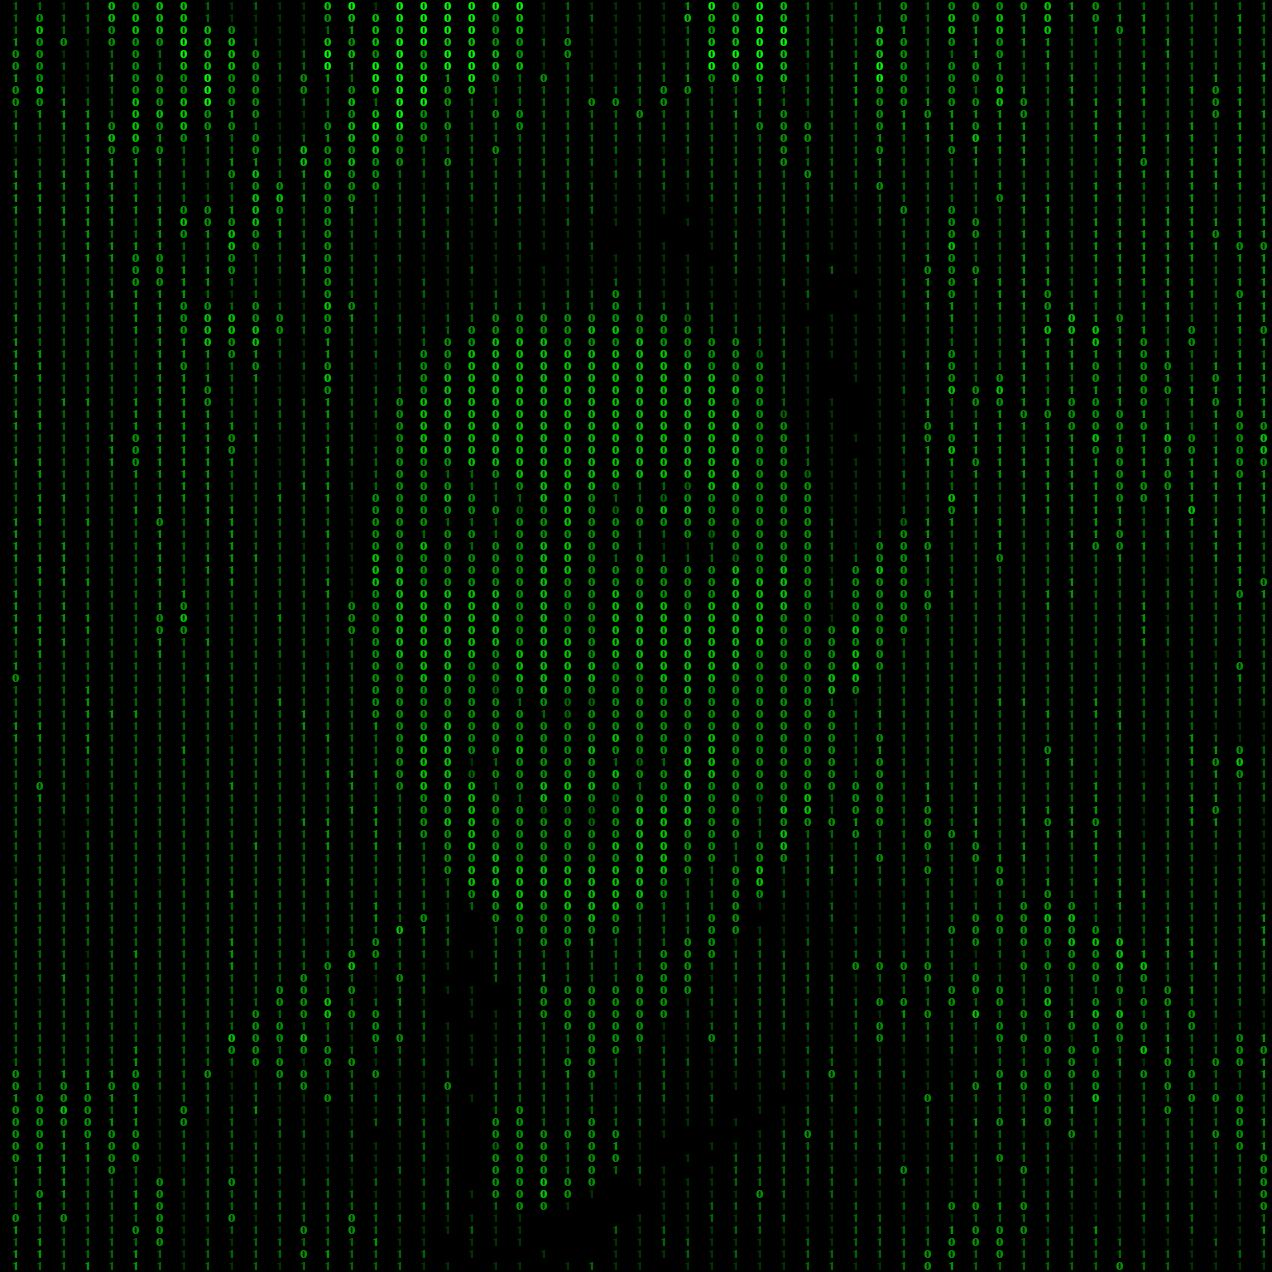
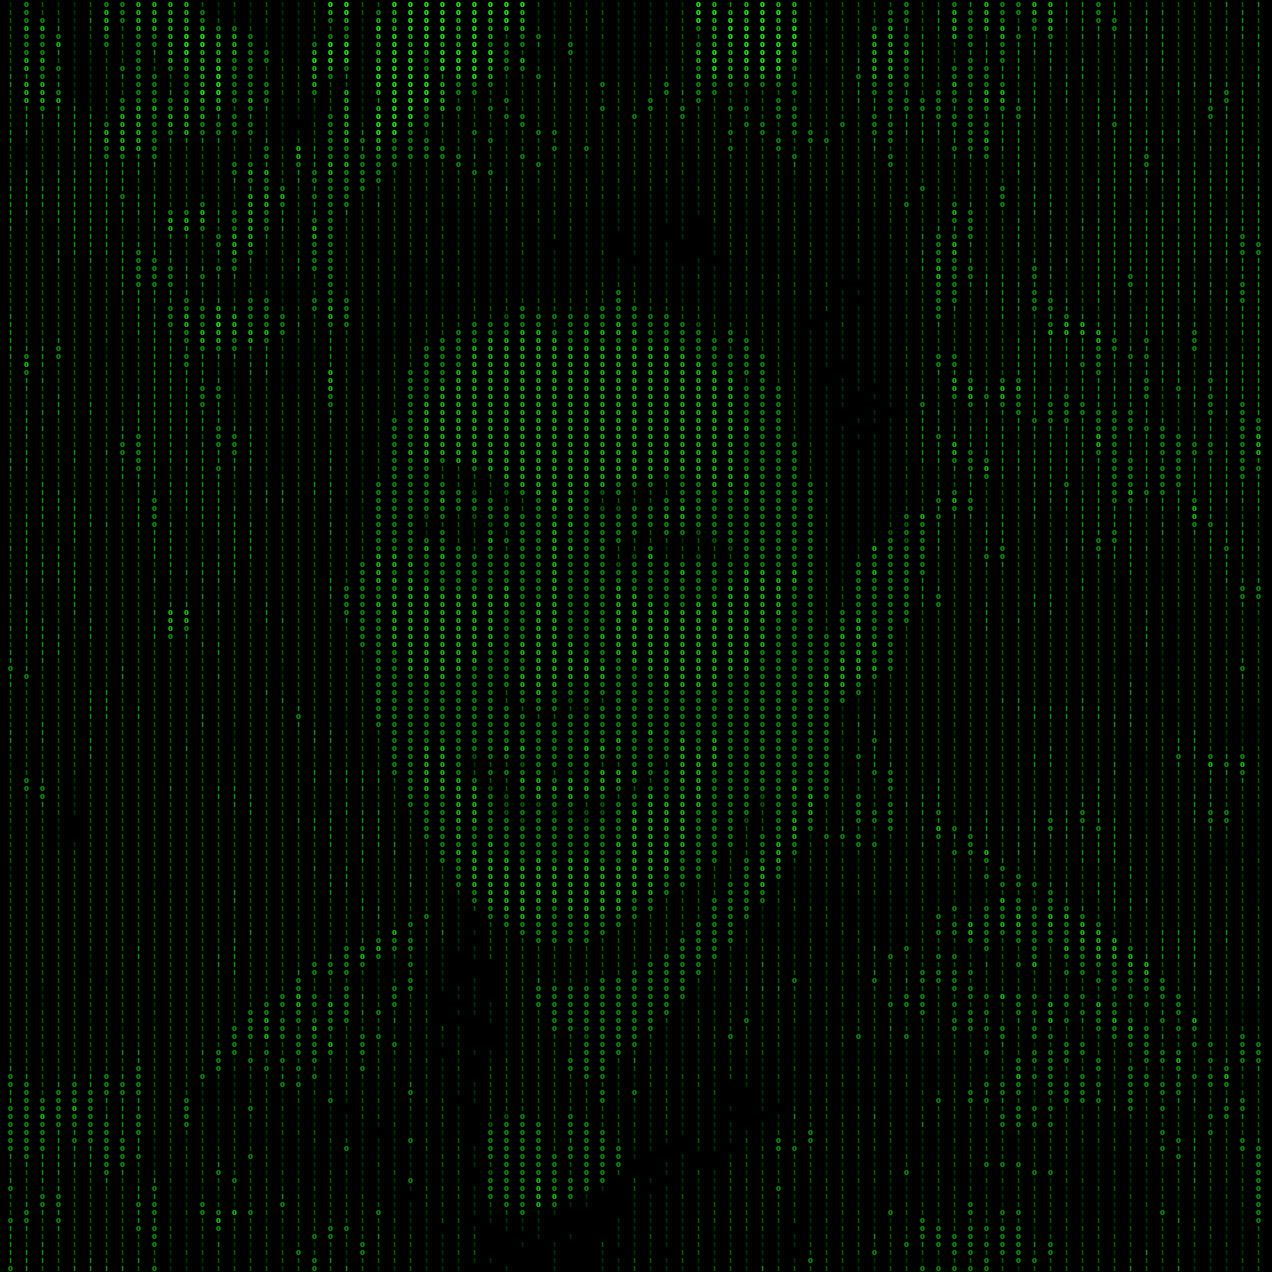
Tweaking visuals

Changed region(s): [[0.0, 0.0, 1.0, 1.0]]

diff --git a/OnesAndZerosImageGenerator.py b/OnesAndZerosImageGenerator.py
@@ -1,9 +1,11 @@
 import math
+import random
+
 from PIL import Image, ImageDraw, ImageFont
 
 profile_image = Image.open('Headshot.JPG')
 WIDTH, HEIGHT = profile_image.size
-ONE_ZERO_SIZE = 12
+ONE_ZERO_SIZE = 8
 
 font = ImageFont.truetype('C:/Windows/Fonts/BRITANIC.ttf', ONE_ZERO_SIZE)
 cell_width, cell_height = ONE_ZERO_SIZE, ONE_ZERO_SIZE
@@ -16,23 +18,23 @@ cyber_profile = Image.new('RGB', (WIDTH, HEIGHT), (0, 0, 0))
 d = ImageDraw.Draw(cyber_profile)
 
 for height in range(new_height):
+
     for width in range(new_width):
 
         if width % 2 == 0: continue
+
+        r, g, b = profile_image[width, height]
+        k = int((r + g + b) / 3)
+
+        if g % 50 > 25:
+            g = int(math.ceil(g / 50.0)) * 50
         else:
-
-            r, g, b = profile_image[width, height]
-            k = int((r + g + b) / 3)
-
-            if g % 50 > 25:
-                g = int(math.ceil(g / 50.0)) * 50
-            else:
-                g = int(math.floor(g / 50.0)) * 50
-            if k < 128:
-                text = "1"
-            else:
-                text = "0"
-            d.text((width * cell_width, height * cell_height), text=text, font=font, fill=(0, g, 0))
+            g = int(math.floor(g / 50.0)) * 50
+        if k < 128:
+            text = "1"
+        else:
+            text = "0"
+        d.text((width * cell_width, height * cell_height), text=text, font=font, fill=(0, g, 0))
 
 cyber_profile.show()
 cyber_profile.save('Cyber_Profile.jpg')
